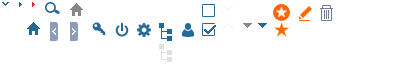
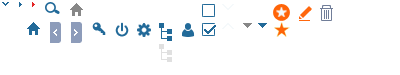
#9049 - UI - Edit layout for left panel when searching member or agent
fix space of nodes for treeview

Changed region(s): [[0.12, 0.2933, 0.21, 0.5867]]

diff --git a/Apollo.CMS.Websites/Content/site/index.less b/Apollo.CMS.Websites/Content/site/index.less
@@ -116,12 +116,14 @@ input[type="text"] {
 
 .icon-collapse {
     .icon;
+    height: 22px;
     background-position: -50px -22px;
 }
 
 .icon-expand {
     .icon;
-    background-position: -70px -22px;
+    background-position: -71px -22px;
+    height: 22px;
 }
 
 .icon-row-right {

diff --git a/Apollo.CMS.Websites/Areas/Account/Resources/TreeView/treeview.css b/Apollo.CMS.Websites/Areas/Account/Resources/TreeView/treeview.css
@@ -26,6 +26,10 @@
     background: url(images/treeview-default-line.gif) 0 0 no-repeat;
 }
 
+.treeview li.last, .treeview li.collapsable {
+    padding-bottom: 0;
+}
+
 .treeview li span:hover {
     color: #ff0000;
     cursor: pointer;
